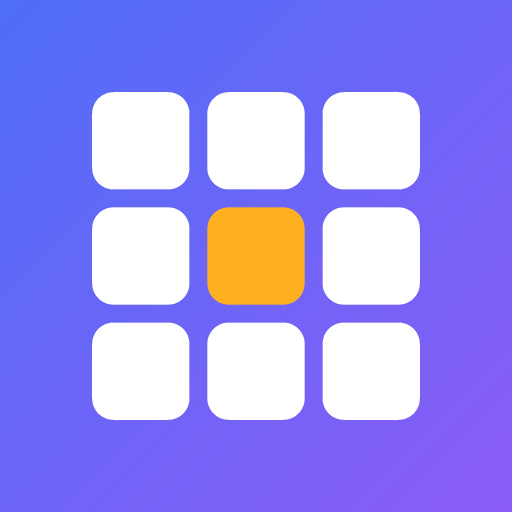
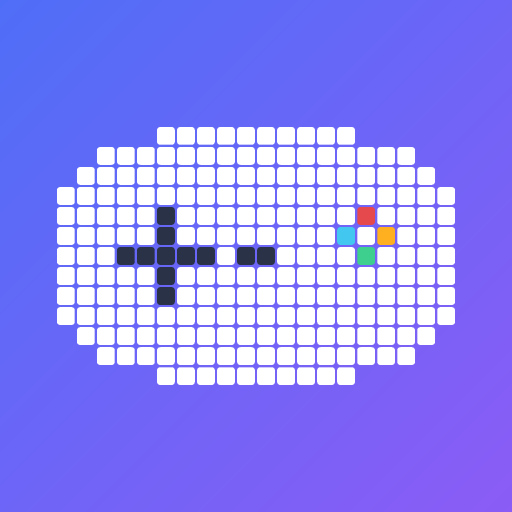
图标改为马赛克风格游戏手柄(纯 Node 像素画生成)
- gen-icons.js:22×13 像素画手柄——白色瓷砖机身、深色十字键、
  开始/选择键、红蓝黄绿四色按钮菱形,瓷砖留缝呈马赛克拼贴感,
  背景保留合集主题的靛蓝→紫渐变
- 重新生成 icon-180/192/512;sw.js v5→v6

Changed region(s): [[0.0938, 0.1562, 0.9062, 0.8438]]

diff --git a/tools/gen-icons.js b/tools/gen-icons.js
@@ -1,6 +1,7 @@
 /* ==========================================================
    PWA 图标生成器 — 纯 Node 实现,零依赖(node tools/gen-icons.js)
-   设计:蓝紫渐变背景 + 3×3 白色圆角方块,中心一块琥珀色
+   设计:蓝紫渐变背景 + 马赛克瓷砖拼贴的游戏手柄
+        (白色机身、深色十字键与功能键、红蓝黄绿四色按钮)
    产物:icons/icon-180.png(apple-touch-icon)/ 192 / 512
    ========================================================== */
 'use strict';
@@ -57,7 +58,7 @@ function encodePNG(width, height, rgb /* Uint8Array, 3 bytes/px */) {
   ]);
 }
 
-/* ---------- 绘制 ---------- */
+/* ---------- 绘制:马赛克游戏手柄 ---------- */
 const lerp = (a, b, t) => a + (b - a) * t;
 
 // 点是否在圆角矩形内(x,y 为像素中心坐标系)
@@ -68,33 +69,50 @@ function inRoundRect(px, py, x, y, w, h, r) {
   return (px - cx) ** 2 + (py - cy) ** 2 <= r * r;
 }
 
+/* 像素画定义:22×13 网格,横向手柄
+   机身每行的 [起列, 止列](圆角胶囊轮廓) */
+const GRID_COLS = 22;
+const BODY_ROWS = [
+  [6, 15],
+  [3, 18],
+  [2, 19],
+  [1, 20], [1, 20], [1, 20], [1, 20], [1, 20], [1, 20], [1, 20],
+  [2, 19],
+  [3, 18],
+  [6, 15],
+];
+
+/* 叠加瓷砖("列,行": 字符)
+   D 十字键 · S 开始/选择键 · R/B/Y/G 四色按钮(上红 左蓝 右黄 下绿) */
+const OVERLAYS = {
+  '6,4': 'D', '6,5': 'D', '6,6': 'D', '6,7': 'D', '6,8': 'D',
+  '4,6': 'D', '5,6': 'D', '7,6': 'D', '8,6': 'D',
+  '10,6': 'S', '11,6': 'S',
+  '16,4': 'R', '15,5': 'B', '17,5': 'Y', '16,6': 'G',
+};
+
+const TILE_COLORS = {
+  W: [255, 255, 255], // 机身
+  D: [42, 50, 71], // 十字键/功能键
+  S: [42, 50, 71],
+  R: [229, 72, 77],
+  B: [65, 199, 240],
+  Y: [255, 176, 32],
+  G: [62, 207, 142],
+};
+
 function drawIcon(S) {
   const img = new Uint8Array(S * S * 3);
-  // 渐变端色:靛蓝 → 紫
+  // 渐变端色:靛蓝 → 紫(与合集 UI 主题一致)
   const c1 = [79, 110, 247];
   const c2 = [139, 92, 246];
-  // 棋盘参数(相对尺寸)
-  const board = S * 0.64; // 3×3 棋盘总宽
-  const gap = S * 0.035;
-  const cell = (board - 2 * gap) / 3;
-  const cellR = cell * 0.22;
-  const bx = (S - board) / 2;
-  const by = (S - board) / 2;
+  // 马赛克参数:手柄主体占宽 86%,瓷砖间留缝露背景
+  const cell = (S * 0.86) / GRID_COLS;
+  const gap = cell * 0.11;
+  const tileR = (cell - gap) * 0.18; // 瓷砖微圆角
+  const bx = (S - GRID_COLS * cell) / 2;
+  const by = (S - BODY_ROWS.length * cell) / 2;
   const SS = 3; // 3×3 超采样抗锯齿
-  const white = [255, 255, 255];
-  const amber = [255, 176, 32];
-
-  // 预生成 9 个圆角矩形
-  const rects = [];
-  for (let r = 0; r < 3; r++) {
-    for (let c = 0; c < 3; c++) {
-      rects.push({
-        x: bx + c * (cell + gap),
-        y: by + r * (cell + gap),
-        color: r === 1 && c === 1 ? amber : white,
-      });
-    }
-  }
 
   for (let y = 0; y < S; y++) {
     for (let x = 0; x < S; x++) {
@@ -104,10 +122,17 @@ function drawIcon(S) {
           const px = x + (sx + 0.5) / SS;
           const py = y + (sy + 0.5) / SS;
           let col = null;
-          for (const rc of rects) {
-            if (inRoundRect(px, py, rc.x, rc.y, cell, cell, cellR)) {
-              col = rc.color;
-              break;
+          // 只检查采样点所在行的瓷砖(按行分桶,避免 O(S²×全部瓷砖))
+          const row = Math.floor((py - by) / cell);
+          if (row >= 0 && row < BODY_ROWS.length) {
+            const [a, b] = BODY_ROWS[row];
+            for (let tx = a; tx <= b; tx++) {
+              const rx = bx + tx * cell;
+              const ry = by + row * cell;
+              if (inRoundRect(px, py, rx + gap / 2, ry + gap / 2, cell - gap, cell - gap, tileR)) {
+                col = TILE_COLORS[OVERLAYS[`${tx},${row}`] || 'W'];
+                break;
+              }
             }
           }
           if (!col) {

diff --git a/sw.js b/sw.js
@@ -5,7 +5,7 @@
    ========================================================== */
 'use strict';
 
-const CACHE_VERSION = 'v5';
+const CACHE_VERSION = 'v6';
 const PRECACHE = [
   './',
   './index.html',
